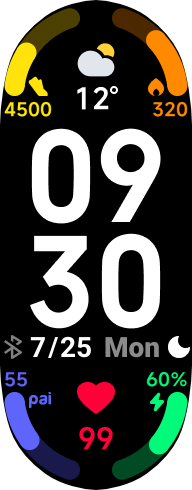
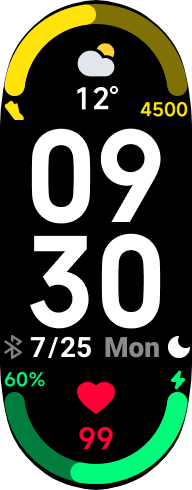
2-bar version

diff --git a/src/editables.js b/src/editables.js
@@ -79,21 +79,21 @@ function renderBars() {
   const urls = [];
   const isEdit = hmSetting.getScreenType() == hmSetting.screen_type.SETTINGS;
 
-  for (let i = 0; i < 4; i++) {
+  for (let i = 0; i < 2; i++) {
     const editView = hmUI.createWidget(hmUI.widget.WATCHFACE_EDIT_GROUP, {
       edit_id: 101 + i,
-      x: i % 2 == 1 ? 94 : 2,
-      y: i > 1 ? 352 : 4,
-      w: 96,
+      x: 0,
+      y: i == 0 ? 4 : 352,
+      w: 192,
       h: 136,
       select_image: `edit/${i}a.png`,
       un_select_image: `edit/${i}.png`,
-      default_type: i,
+      default_type: i == 0 ? 0 : 3, // steps : battery
       optional_types: Object.keys(EDIT_BARS).map((key) => {
         const data = EDIT_BARS[key];
         return {
           type: data.value,
-          preview: `bars/${i}/demo/${key}.png`,
+          preview: `bars/demo/${i}/${key}.png`,
         };
       }),
       count: Object.keys(EDIT_BARS).length,
@@ -127,36 +127,49 @@ function renderBars() {
 function _drawBar(i, currentKey, currentData) {
   if (i == 99) return;
 
-  // Draw BG
-  hmUI.createWidget(hmUI.widget.IMG, {
-    x: i % 2 == 1 ? 96 : 0,
-    y: i > 1 ? 364 : 0,
-    src: `bars/${i}/${currentKey}.png`,
+  const arcProps = {
+    center_x: 96,
+    center_y: i == 0 ? 96 : 392,
+    radius: 82,
+    start_angle: i == 0 ? -90 : 90,
+    end_angle: i == 0 ? 90 : 270,
+    line_width: 20,
     show_level: hmUI.show_level.ONLY_NORMAL,
+  };
+
+  const { color } = currentData;
+
+  // Draw BG
+  hmUI.createWidget(hmUI.widget.ARC_PROGRESS, {
+    ...arcProps,
+    color: [color % 256, (color >> 8) % 256, color >> 16] // [B, G, R]
+      .map((c) => c * 0.5) // half opacity
+      .reduce((sum, c, i) => sum + (c << (8 * i)), 0),
+    level: 100,
   });
 
-  // Draw ARC_PROGRESS
-  const view = hmUI.createWidget(hmUI.widget.ARC_PROGRESS, {
-    type: currentData.progressDataType
-      ? currentData.progressDataType
-      : currentData.dataType,
-    center_x: 96,
-    center_y: i > 1 ? 392 : 96,
-    radius: 82,
-    start_angle: i % 2 == 0 ? -90 : 90,
-    end_angle: [-12, 12, -168, 168][i],
-    line_width: 20,
-    color: currentData.color,
+  // Draw FG
+  hmUI.createWidget(hmUI.widget.ARC_PROGRESS, {
+    ...arcProps,
+    color,
+    type: currentData.dataType,
+  });
+
+  // Draw ICON
+  hmUI.createWidget(hmUI.widget.IMG, {
+    x: i == 0 ? 3 : 167,
+    y: i == 0 ? 100 : 370,
+    src: `bars/icon/${currentKey}.png`,
     show_level: hmUI.show_level.ONLY_NORMAL,
   });
 
   // Draw TEXT
   hmUI.createWidget(hmUI.widget.TEXT_IMG, {
-    x: i % 2 == 1 ? 96 : 4,
-    y: i > 1 ? 370 : 100,
+    x: i == 0 ? 96 : 4,
+    y: i == 0 ? 100 : 370,
     w: 92,
     font_array: mkImgArray(`fonts/${currentData.font}`),
-    align_h: i % 2 == 1 ? hmUI.align.RIGHT : hmUI.align.LEFT,
+    align_h: i == 0 ? hmUI.align.RIGHT : hmUI.align.LEFT,
     type: currentData.dataType,
     dot_image: currentData.dotImage,
     unit_en: currentData.unit,

diff --git a/src/variants.js b/src/variants.js
@@ -35,31 +35,15 @@ const EDIT_BARS = {
     font: "sm_red",
     color: 0xff0038,
   },
-  km: {
-    value: 5,
-    dataType: hmUI.data_type.DISTANCE,
-    progressDataType: hmUI.data_type.STEP,
-    dotImage: "fonts/sm_lightblue/11.png",
-    url: "activityAppScreen",
-    font: "sm_lightblue",
-    color: 0x0dd3ff,
-  },
-  stress: {
-    value: 6,
-    dataType: hmUI.data_type.STRESS,
-    url: "StressHomeScreen",
-    font: "sm_stress",
-    color: 0x00bd9d,
-  },
   stand: {
-    value: 7,
+    value: 5,
     dataType: hmUI.data_type.STAND,
     url: "activityAppScreen",
     font: "sm_green",
     color: 0x36cf6e,
   },
   spo2: {
-    value: 8,
+    value: 6,
     dataType: hmUI.data_type.SPO2,
     url: "spo_HomeScreen",
     font: "sm_red",
